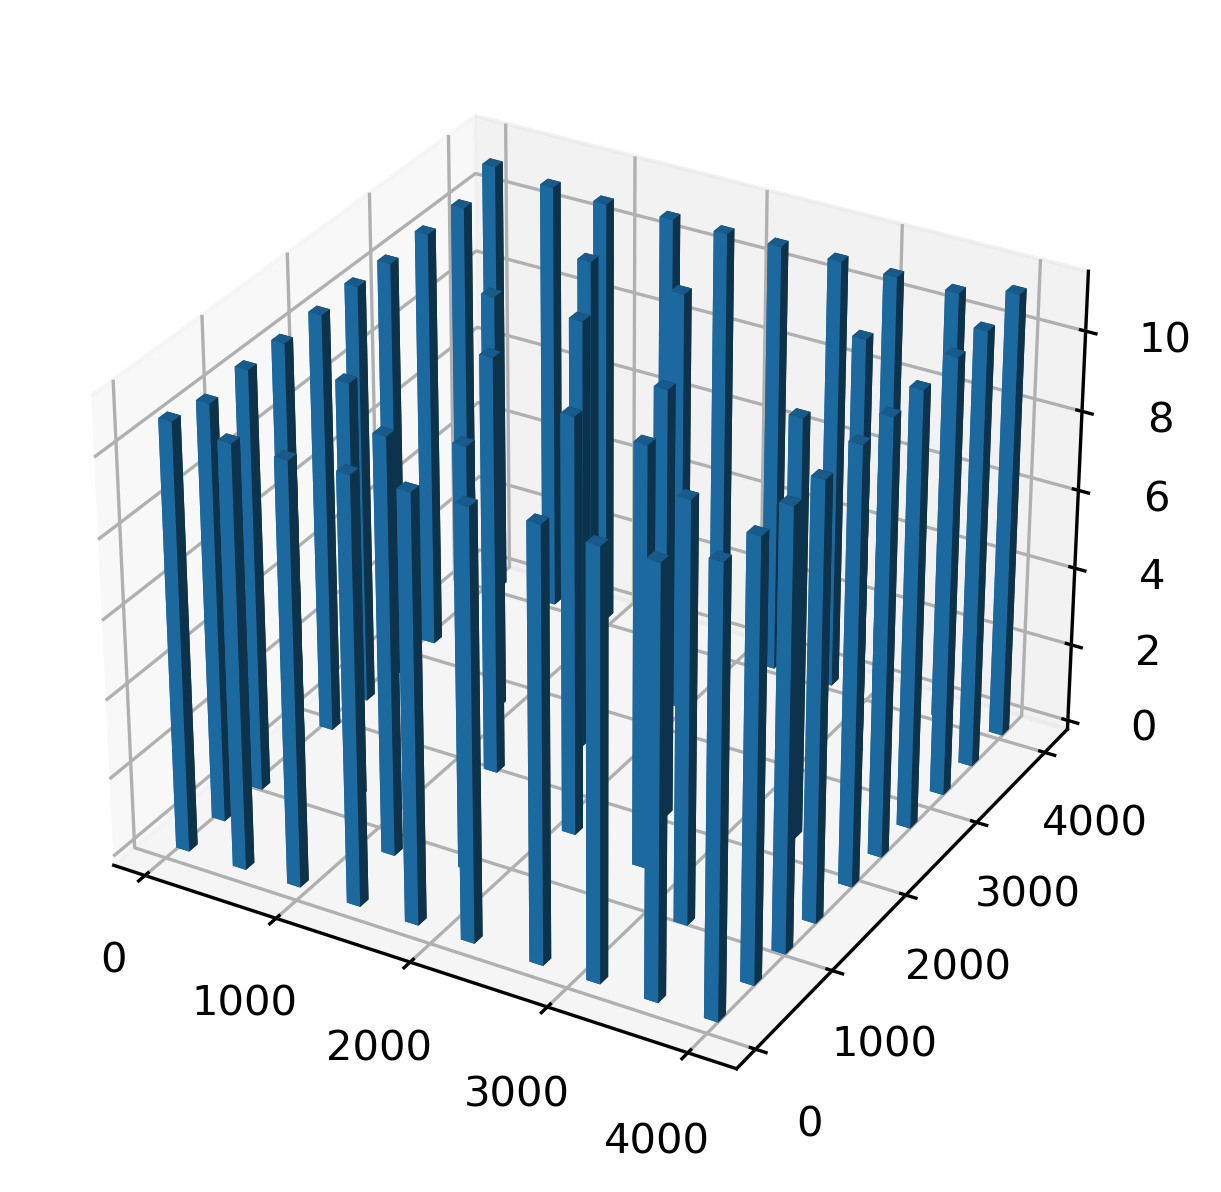
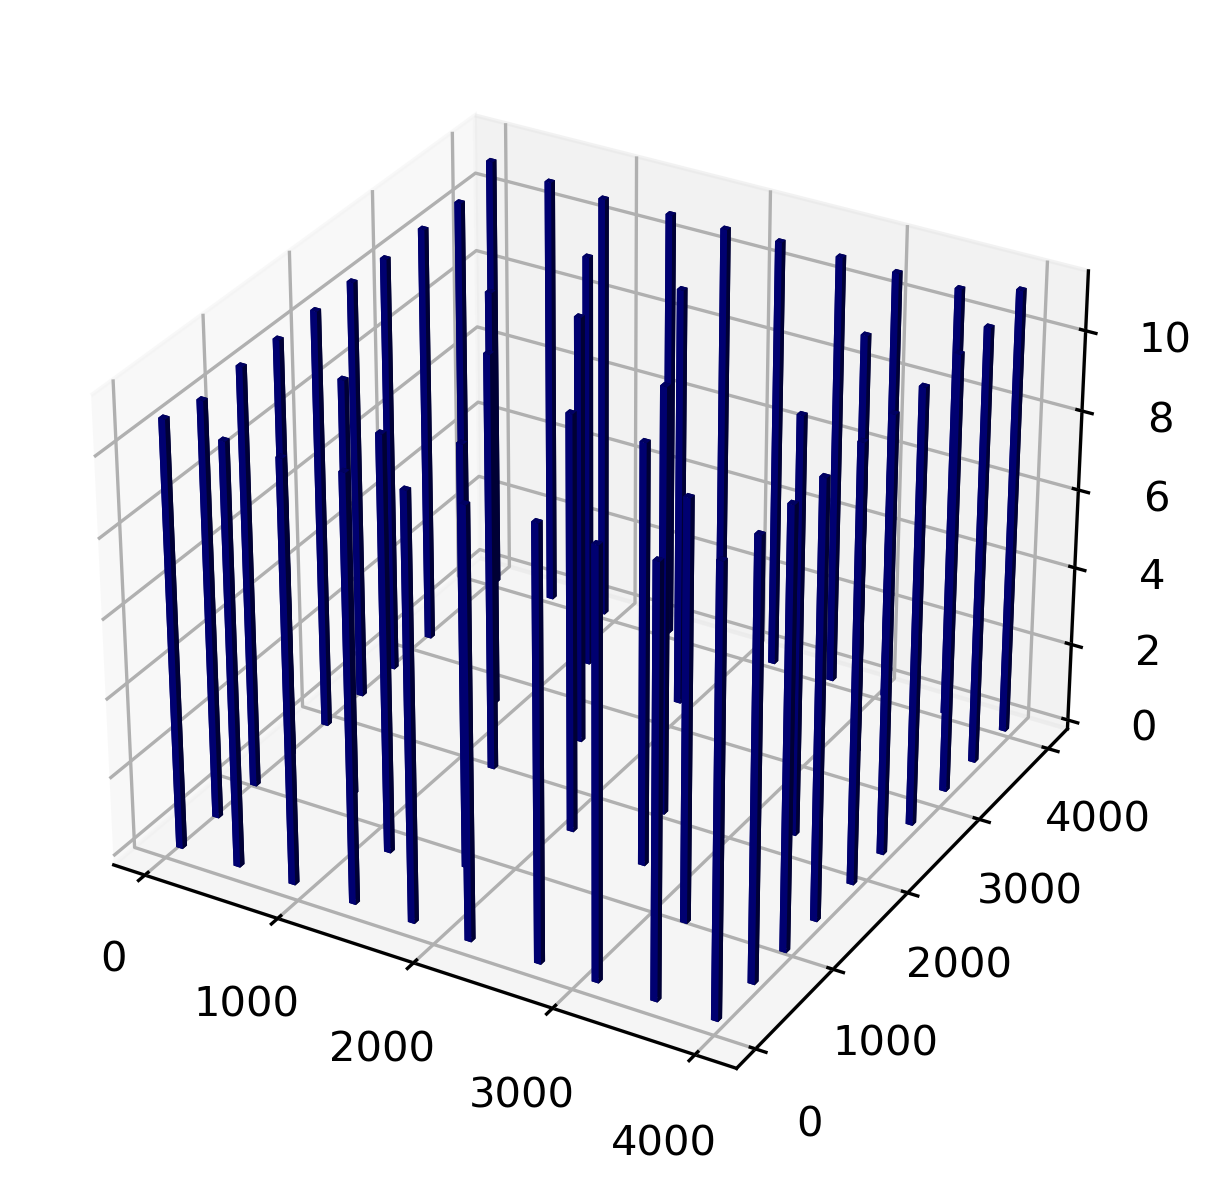
AEP plot

diff --git a/Wind_Farm_Evaluator/Vec_Ind_AEP.py b/Wind_Farm_Evaluator/Vec_Ind_AEP.py
@@ -500,7 +500,9 @@ if __name__ == "__main__":
     ax = plt.axes(projection='3d')
     print(turb_coords[:,1].shape)
     bot = np.zeros_like(AEP)
-    ax.bar3d(turb_coords[:,0],turb_coords[:,1],bot,100,100,AEP)
+
+    col = plt.cm.jet((AEP-AEP.max())/AEP.max())
+    ax.bar3d(turb_coords[:,0],turb_coords[:,1],bot,50,50,AEP, color=col)
     plt.savefig("AEP_distr.png", dpi = 300, bbox_inches = 'tight')
     # print('Total power produced by the wind farm is: ', "%.12f"%(AEP), 'GWh')
 # 
